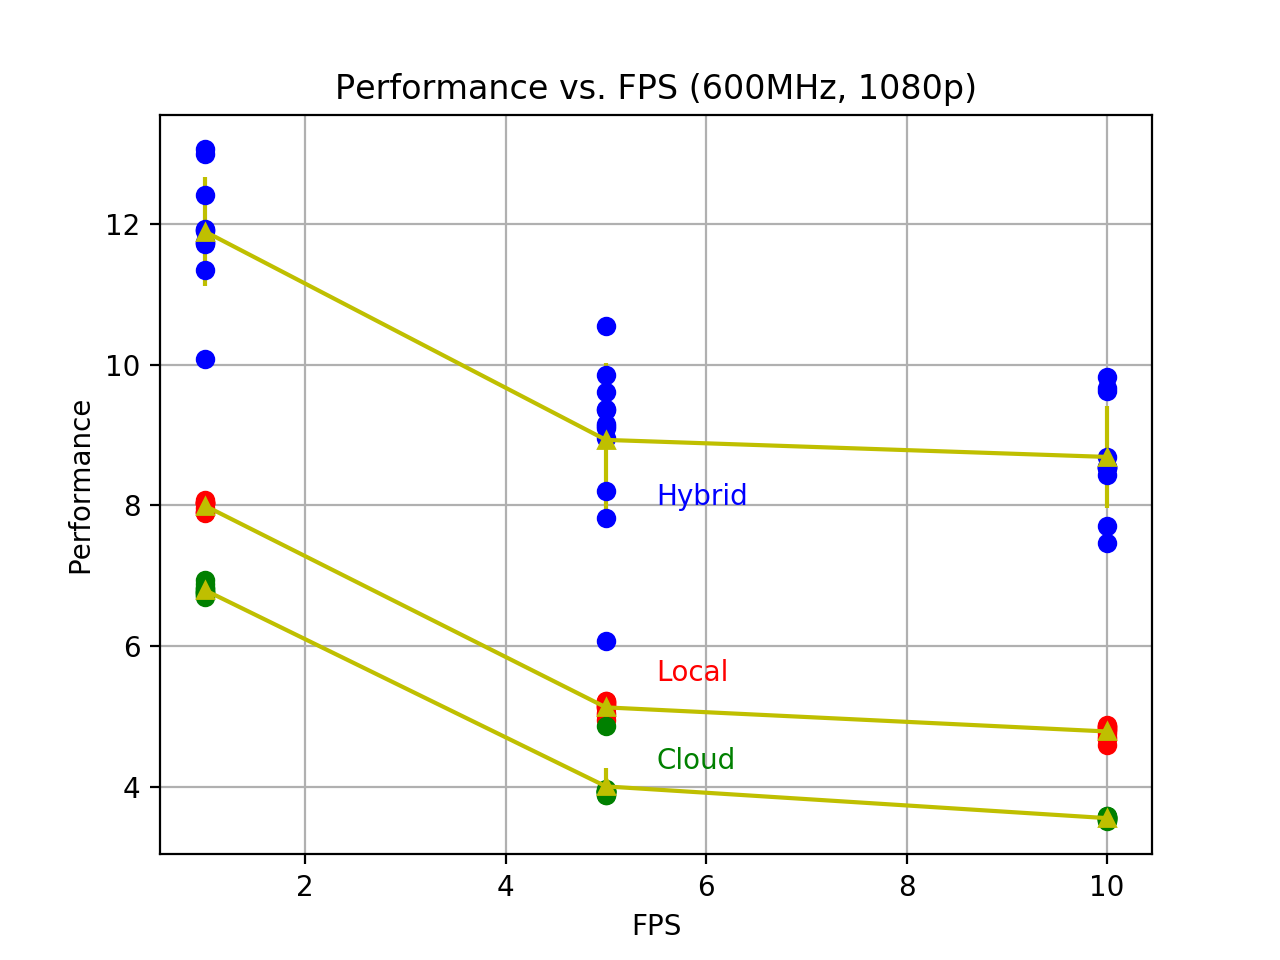
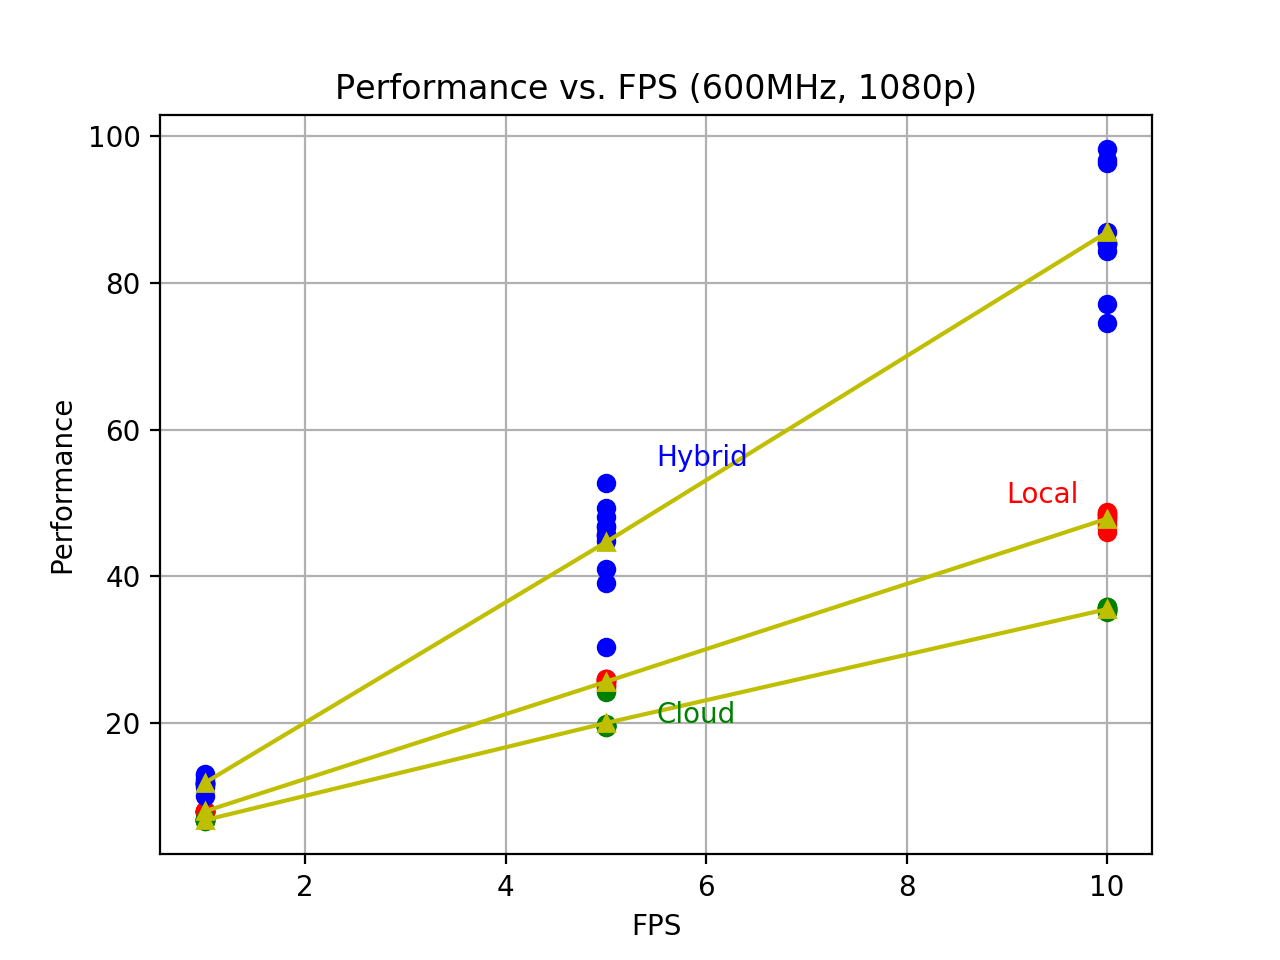
Fixed Plot

diff --git a/Amber/Test Results/PlotData.py b/Amber/Test Results/PlotData.py
@@ -17,20 +17,20 @@ cloud_avg = {1 : np.mean(cloud[1]), 5 : np.mean(cloud[5]), 10 : np.mean(cloud[10
 hybrid_avg = {1 : np.mean(hybrid[1]), 5 : np.mean(hybrid[5]), 10 : np.mean(hybrid[10])}
 
 plt.plot([1 for i in local[1]], [i for i in local[1]], 'ro',\
-         [5 for i in local[5]], [i for i in local[5]], 'ro',\
-         [10 for i in local[10]], [i for i in local[10]], 'ro',\
+         [5 for i in local[5]], [5*i for i in local[5]], 'ro',\
+         [10 for i in local[10]], [10*i for i in local[10]], 'ro',\
          [1 for i in cloud[1]], [i for i in cloud[1]], 'go',\
-         [5 for i in cloud[5]], [i for i in cloud[5]], 'go',\
-         [10 for i in cloud[10]], [i for i in cloud[10]], 'go',\
+         [5 for i in cloud[5]], [5*i for i in cloud[5]], 'go',\
+         [10 for i in cloud[10]], [10*i for i in cloud[10]], 'go',\
          [1 for i in hybrid[1]], [i for i in hybrid[1]], 'bo',\
-         [5 for i in hybrid[5]], [i for i in hybrid[5]], 'bo',\
-         [10 for i in hybrid[10]], [i for i in hybrid[10]], 'bo')
-plt.errorbar([1, 5, 10], [np.mean(local[1]), np.mean(local[5]), np.mean(local[10])], [np.std(local[1]), np.std(local[5]), np.std(local[10])], linestyle=None, marker='^', color='y')
-plt.errorbar([1, 5, 10], [np.mean(cloud[1]), np.mean(cloud[5]), np.mean(cloud[10])], [np.std(cloud[1]), np.std(cloud[5]), np.std(cloud[10])], linestyle=None, marker='^', color='y')
-plt.errorbar([1, 5, 10], [np.mean(hybrid[1]), np.mean(hybrid[5]), np.mean(hybrid[10])], [np.std(hybrid[1]), np.std(hybrid[5]), np.std(hybrid[10])], linestyle=None, marker='^', color='y')
-plt.text(5.5, 5.5, 'Local', color='r')
-plt.text(5.5, 4.25, 'Cloud', color='g')
-plt.text(5.5, 8, 'Hybrid', color='b')
+         [5 for i in hybrid[5]], [5*i for i in hybrid[5]], 'bo',\
+         [10 for i in hybrid[10]], [10*i for i in hybrid[10]], 'bo')
+plt.errorbar([1, 5, 10], [np.mean(local[1]), 5*np.mean(local[5]), 10*np.mean(local[10])], [np.std(local[1]), np.std(5*local[5]), np.std(10*local[10])], linestyle=None, marker='^', color='y')
+plt.errorbar([1, 5, 10], [np.mean(cloud[1]), 5*np.mean(cloud[5]), 10*np.mean(cloud[10])], [np.std(cloud[1]), np.std(5*cloud[5]), np.std(10*cloud[10])], linestyle=None, marker='^', color='y')
+plt.errorbar([1, 5, 10], [np.mean(hybrid[1]), 5*np.mean(hybrid[5]), 10*np.mean(hybrid[10])], [np.std(hybrid[1]), np.std(5*hybrid[5]), np.std(10*hybrid[10])], linestyle=None, marker='^', color='y')
+plt.text(9, 50, 'Local', color='r')
+plt.text(5.5, 20, 'Cloud', color='g')
+plt.text(5.5, 55, 'Hybrid', color='b')
 plt.xlabel('FPS')
 plt.ylabel('Performance')
 plt.title('Performance vs. FPS (600MHz, 1080p)')
